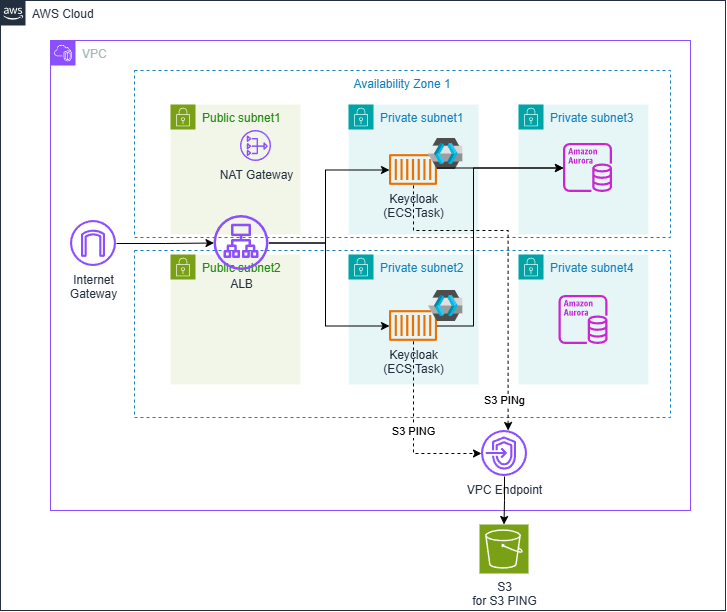
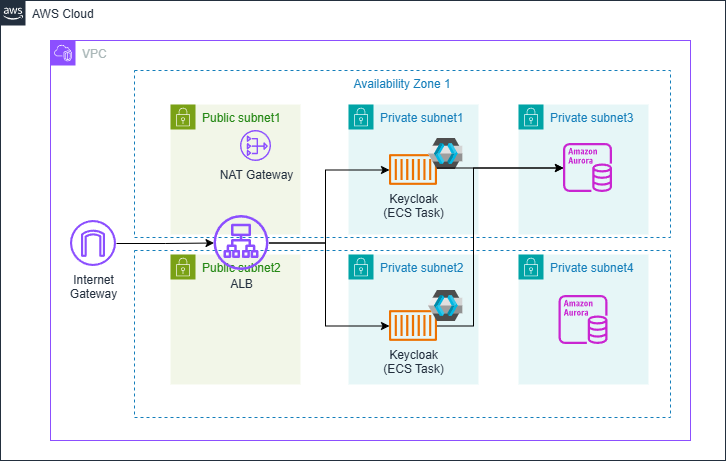
S3_PINGではなくデフォルトのJDBC_PINGに修正

diff --git a/README.md b/README.md
@@ -44,8 +44,7 @@
             * アクセストークンの検証には、イントロスペクションエンドポイントに対応した例になっている。
 
     * Keycloakは、ECSで可用性構成でデプロイされるようになっている。
-        * Keycloakでは、JGroupsを使ってクラスタ構成する各ノードのディスカバリを行う仕組みとなっている。
-        * デフォルト設定ではUDPを使う設定となっており、AWSでも利用可能なS3_PING方式で構成している。
+        * デフォルト設定のjdbc-ping方式でクラスタノードのヘルスチェックを行う設定となっている。
             * この他、DNS_PING方式もあるそうで、コンテナ環境ではDNS_PINGを利用するケースが多いとのこと。
         * DBは、業務DBと同様に、Aurora Serverless v2 for Postgresを使用している。
         
